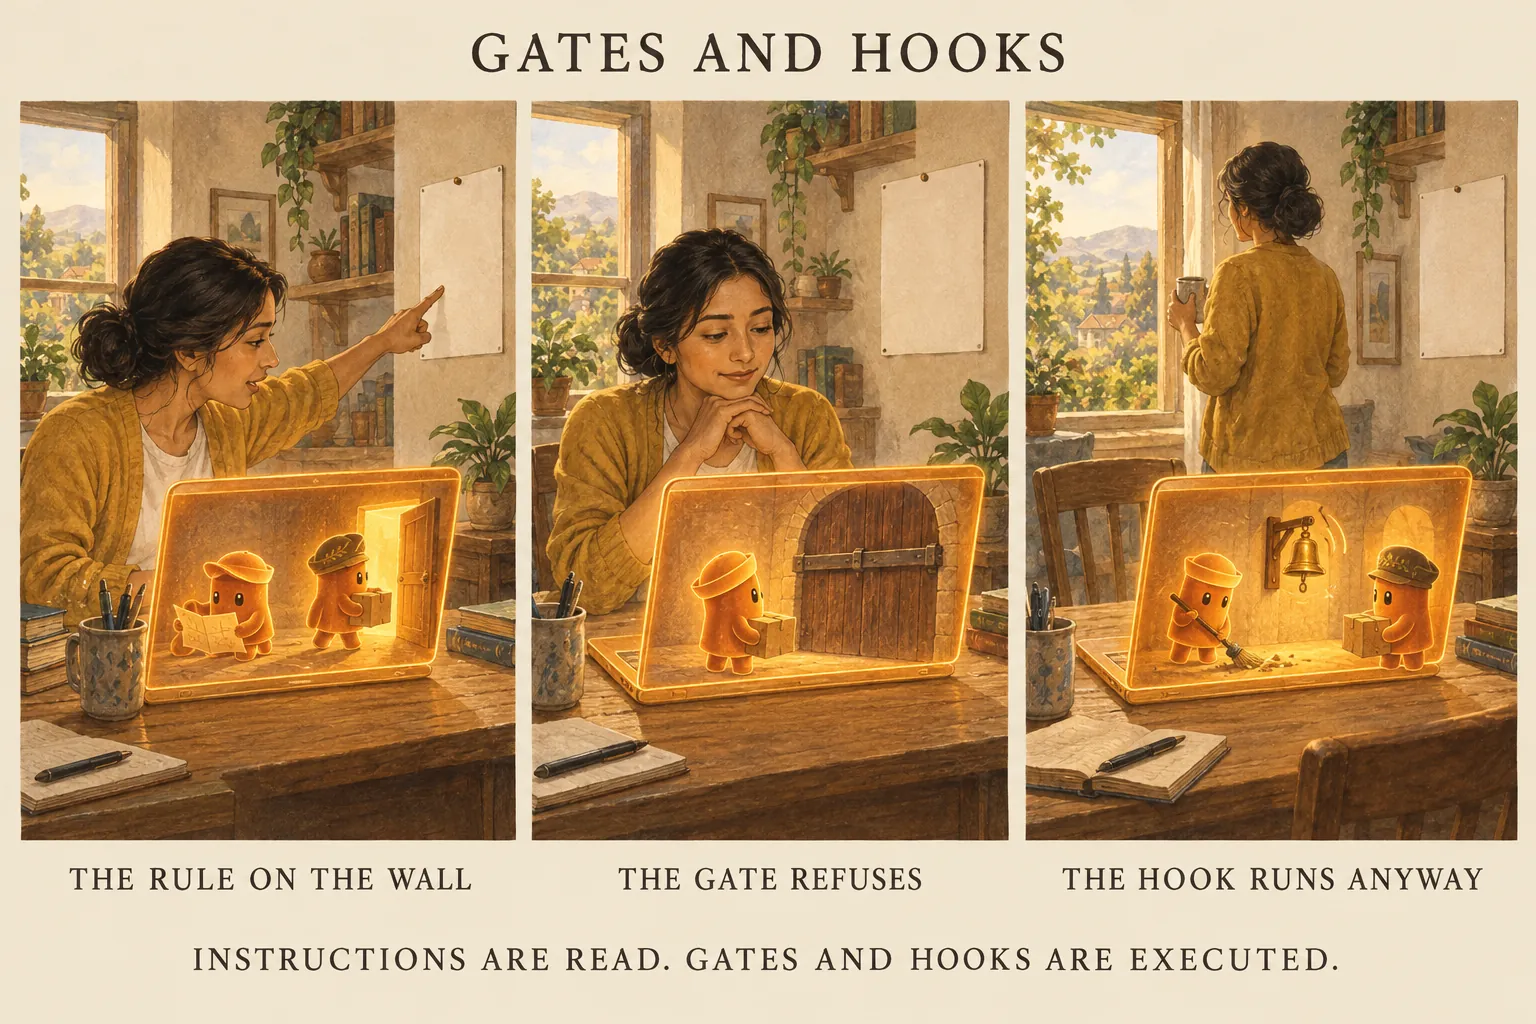
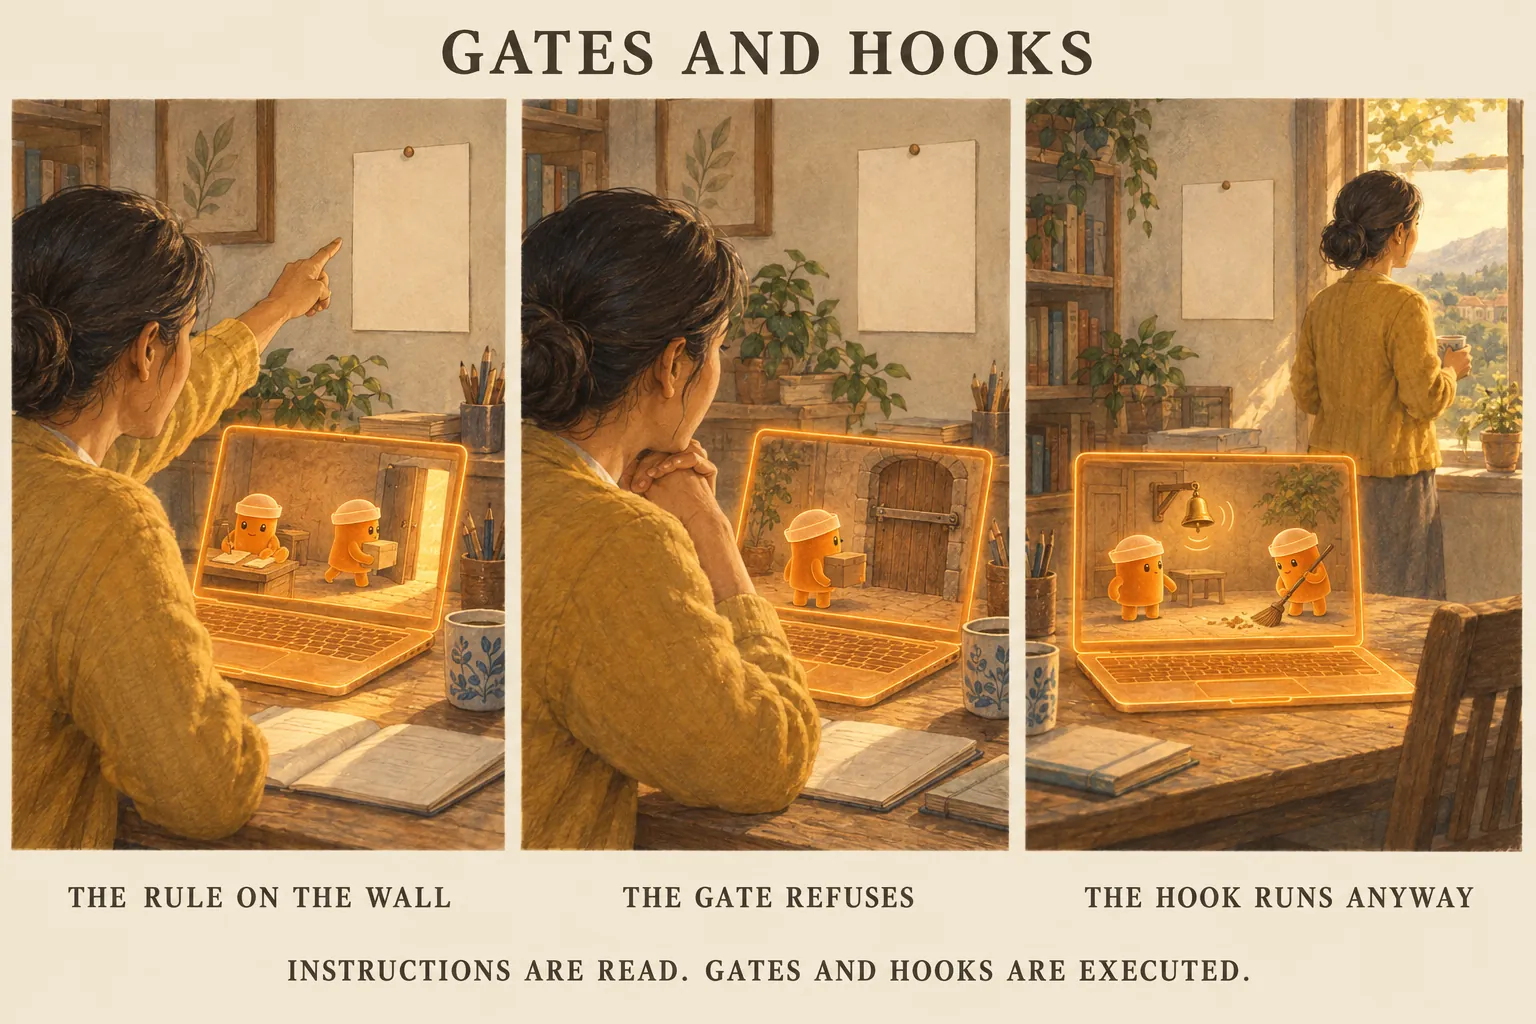
Gates and Hooks: re-roll the hero over her shoulder, so the screen faces its user
The first roll put the laptop's screen toward the camera with the woman behind the lid. The device-anatomy guard had fired and lost, and nothing on the read-back checklist said to look. Rolled again through abu 1.25.0, whose recipe now carries the guard gate, and read back against it.

diff --git a/docs/concepts/gates-and-hooks.md b/docs/concepts/gates-and-hooks.md
@@ -9,7 +9,7 @@ image: "/img/comics/gates-and-hooks.webp"
 
 *The two mechanisms that turn an instruction to an agent into a constraint on it. A gate refuses: a check runs, and failing prevents the action. A hook forces: your step runs at a seam whether or not the agent remembered. Instructions are read. Gates and hooks are executed.*
 
-![Three panels in the hyperagentic-age register, titled GATES AND HOOKS. One, THE RULE ON THE WALL: a woman in a mustard cardigan at a wooden desk points firmly at a blank sheet pinned to the wall while, inside the glowing amber laptop in front of her, two small agents ignore it, one carrying a box out through an open door. Two, THE GATE REFUSES: she sits back with her chin on her hands, calm, as the same agent inside the screen stops short of a heavy barred wooden door with the box still in its arms. Three, THE HOOK RUNS ANYWAY: she has walked away to the window with a mug, her back to the desk, and inside the screen a small brass bell rings on its own while one agent sweeps the floor with a broom and the other carries on working. Footer: INSTRUCTIONS ARE READ. GATES AND HOOKS ARE EXECUTED.](/img/comics/gates-and-hooks.webp)
+![Three panels in the hyperagentic-age register, titled GATES AND HOOKS, all shot over the right shoulder of a woman in a mustard cardigan at a wooden desk, so the glowing amber laptop's screen faces her and the viewer beyond her. One, THE RULE ON THE WALL: she points firmly at a blank sheet pinned to the wall while, inside the screen, one small agent writes at a table and the other carries a box out through an open door, neither looking at the sheet. Two, THE GATE REFUSES: she sits back with her hands folded under her chin as the same agent stops short of a heavy barred wooden door inside the screen, the box still in its arms. Three, THE HOOK RUNS ANYWAY: she has walked away to the window with a mug, her back to the desk, and inside the screen a small brass bell rings on its own while one agent sweeps with a broom and the other stands by. Footer: INSTRUCTIONS ARE READ. GATES AND HOOKS ARE EXECUTED.](/img/comics/gates-and-hooks.webp)
 
 ---
 
